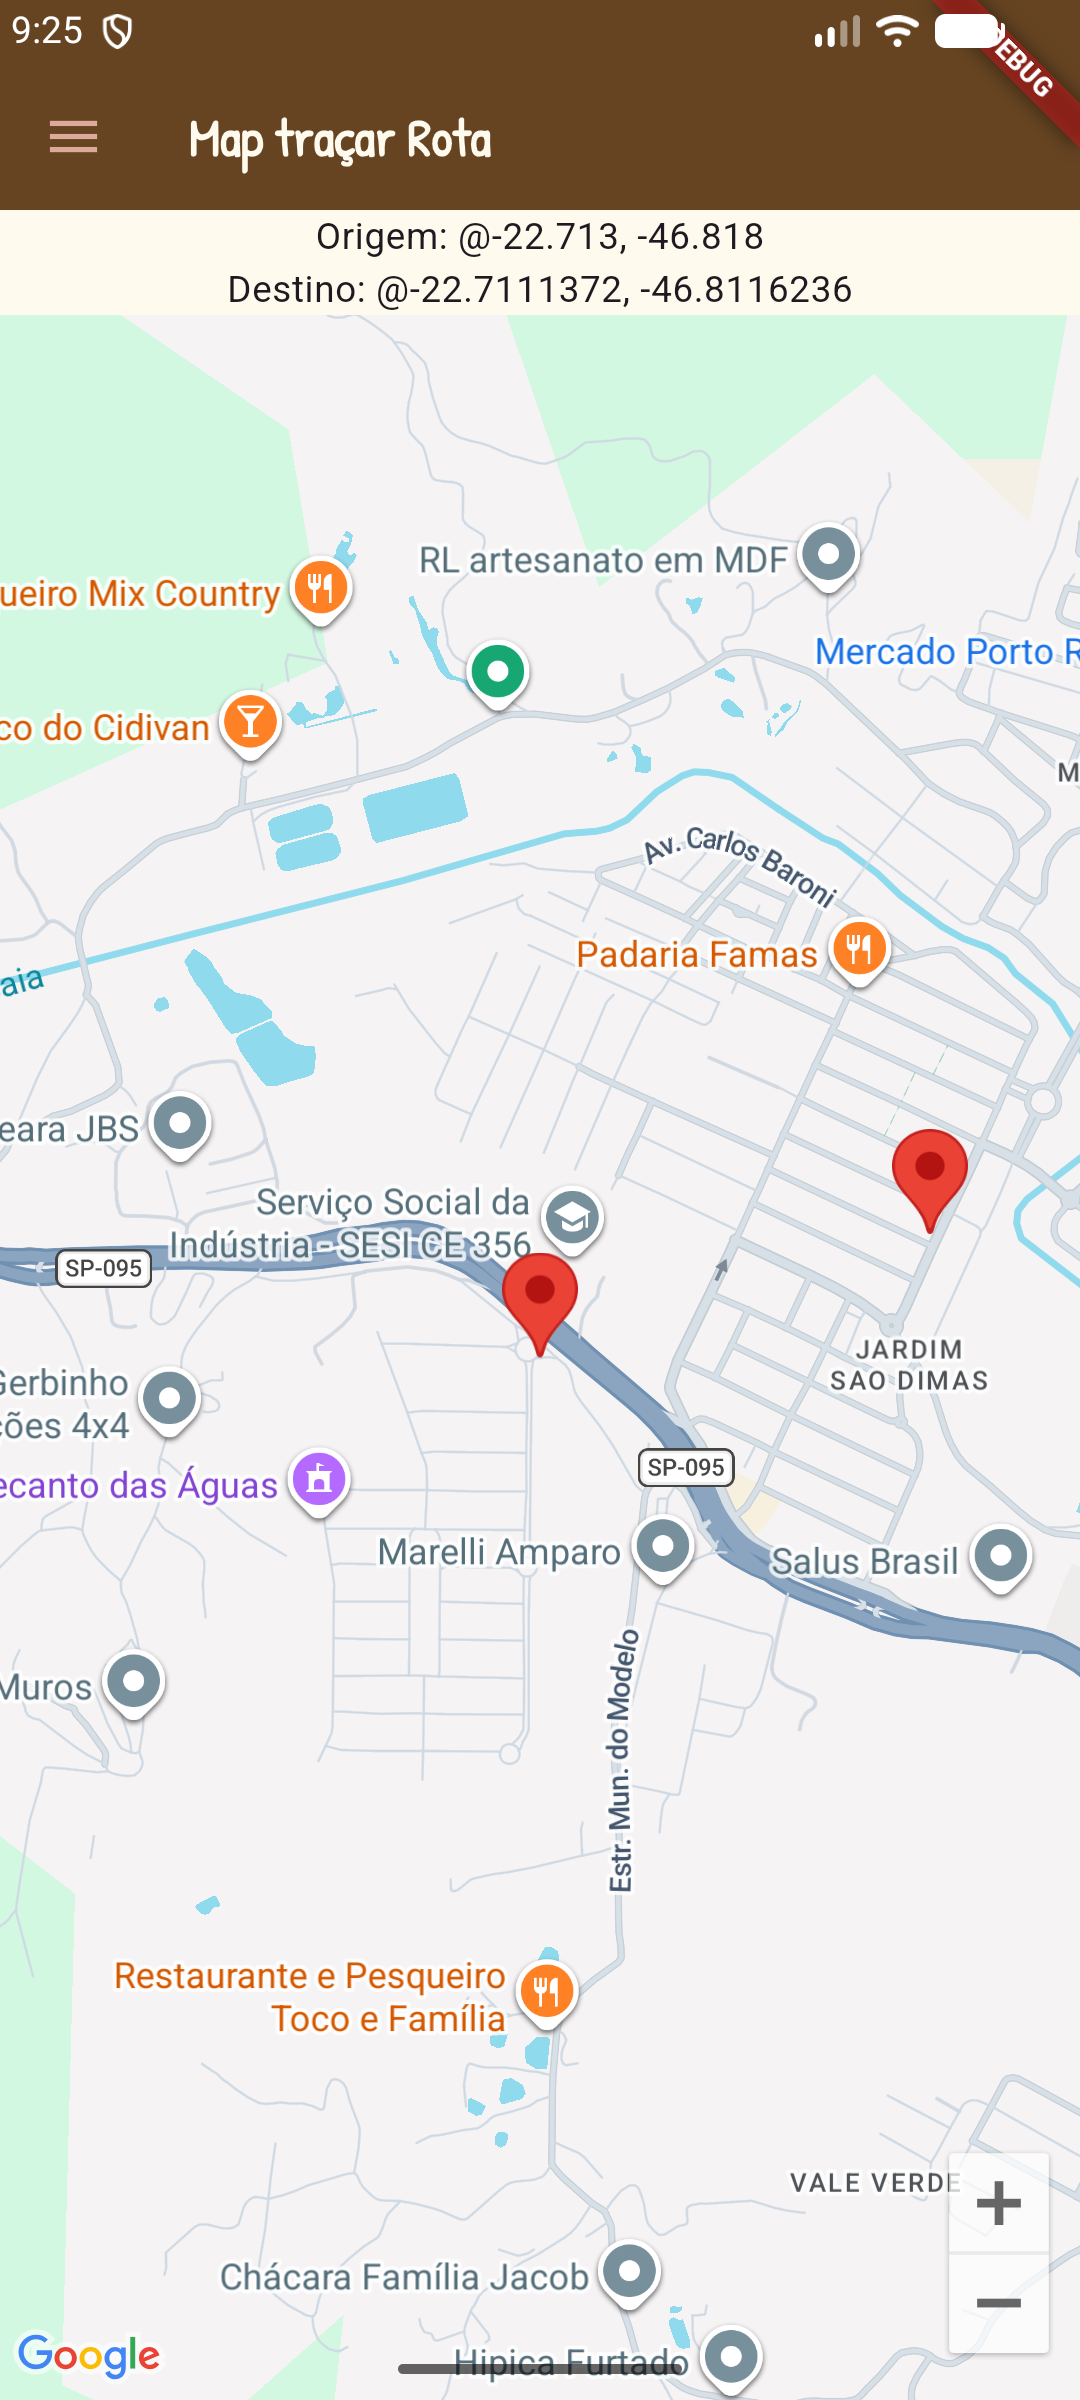
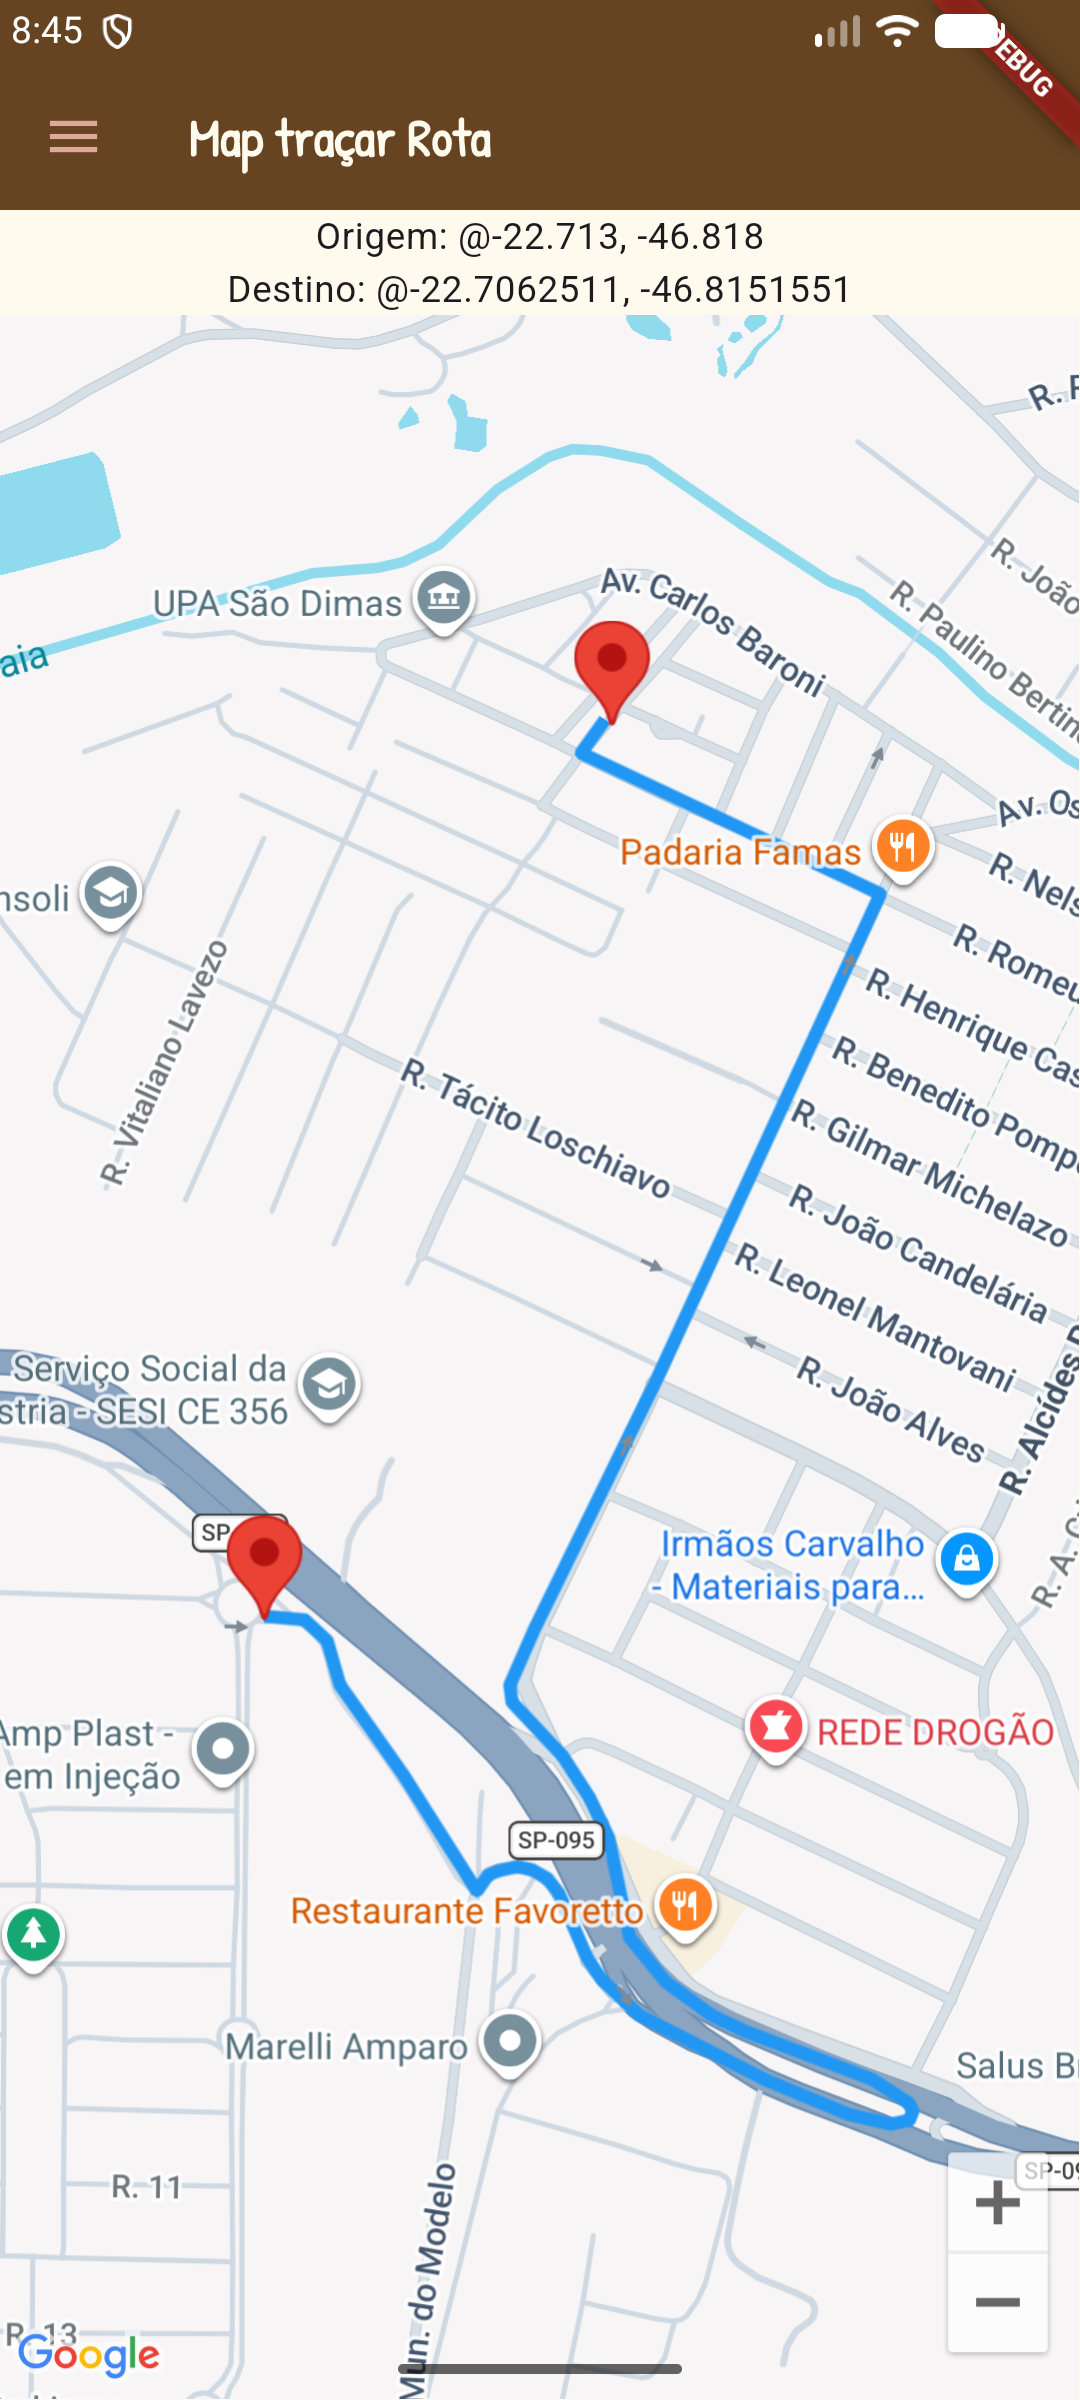
rotas ok

diff --git a/lib/ui/rota.dart b/lib/ui/rota.dart
@@ -1,6 +1,8 @@
+import 'dart:convert';
+
 import 'package:flutter/material.dart';
-import 'package:flutter_polyline_points/flutter_polyline_points.dart';
 import 'package:google_maps_flutter/google_maps_flutter.dart';
+import 'package:http/http.dart' as http;
 
 import 'widgets/menu.dart';
 
@@ -14,7 +16,8 @@ class Rota extends StatefulWidget {
 class _RotaState extends State<Rota> {
   final LatLng _pontoInicial = LatLng(-22.7130000, -46.8180000); //SESI Amparo
   LatLng? _pontoClicado;
-  Set<Polyline> _linhas = {};
+  GoogleMapController? mapController;
+  final Map<PolylineId, Polyline> _polylines = {};
   String mensagem = 'Destino: Clique em um ponto no mapa';
 
   @override
@@ -40,10 +43,13 @@ class _RotaState extends State<Rota> {
                   target: _pontoInicial,
                   zoom: 15.0,
                 ),
+                onMapCreated: (GoogleMapController controller) {
+                  mapController = controller;
+                },
                 onTap: (LatLng latLng) {
                   setState(() {
                     _pontoClicado = latLng;
-                    _obterRota();
+                    buscarRota(_pontoInicial, latLng);
                     mensagem =
                         'Destino: @${latLng.latitude.toStringAsFixed(7)}, ${latLng.longitude.toStringAsFixed(7)}';
                   });
@@ -76,7 +82,7 @@ class _RotaState extends State<Rota> {
                           infoWindow: InfoWindow(title: 'Destino'),
                         ),
                       },
-                polylines: _linhas,
+                polylines: _polylines.values.toSet(),
               ),
             ),
           ],
@@ -85,58 +91,71 @@ class _RotaState extends State<Rota> {
     );
   }
 
-  void _atualizarLinhas(List<LatLng> rota) {
-    if (_pontoClicado == null) {
-      _linhas = {};
-      return;
-    }
-    _linhas = {
-      Polyline(
-        polylineId: PolylineId('rota_destino'),
-        points: rota,
-        color: Colors.blue,
-        width: 5,
-        jointType: JointType.round,
-      ),
-    };
-  }
-
-  Future<void> _obterRota() async {
-    final pontos = PolylinePoints.legacy('API_KEY');
-
-    // ignore: deprecated_member_use
-    final result = await pontos.getRouteBetweenCoordinates(
-      request: PolylineRequest(
-        origin: PointLatLng(_pontoInicial.latitude, _pontoInicial.longitude),
-        destination: PointLatLng(
-          _pontoClicado!.latitude,
-          _pontoClicado!.longitude,
-        ),
-        mode: TravelMode.driving,
-      ),
+  Future<void> buscarRota(LatLng origem, LatLng destino) async {
+    final url = Uri.parse(
+      'https://router.project-osrm.org/route/v1/driving/'
+      '${origem.longitude},${origem.latitude};'
+      '${destino.longitude},${destino.latitude}'
+      '?overview=full&geometries=geojson',
     );
 
-    if (result.points.isNotEmpty) {
-      final coordenadas = result.points
-          .map((p) => LatLng(p.latitude, p.longitude))
-          .toList();
+    try {
+      final response = await http.get(url);
 
-      if (mounted) {
-        setState(() {
-          _atualizarLinhas(coordenadas);
-        });
-      }
-    } else {
-      if (mounted) {
-        debugPrint(result.errorMessage);
-        ScaffoldMessenger.of(context).showSnackBar(
-          SnackBar(
-            content: Text(
-              'Erro ao buscar rota na API: ${result.errorMessage ?? 'Sem rota disponível'}',
-            ),
-          ),
+      if (response.statusCode == 200) {
+        final data = jsonDecode(response.body);
+
+        if (data['routes'] == null || (data['routes'] as List).isEmpty) {
+          debugPrint('OSRM: nenhuma rota encontrada');
+          return;
+        }
+
+        final coords = data['routes'][0]['geometry']['coordinates'] as List;
+        final pontos = coords
+            .map<LatLng>((c) => LatLng(c[1].toDouble(), c[0].toDouble()))
+            .toList();
+
+        final polyline = Polyline(
+          polylineId: const PolylineId('trajeto_osrm'),
+          color: Colors.blue,
+          width: 5,
+          points: pontos,
         );
+
+        setState(() {
+          _polylines.clear();
+          _polylines[polyline.polylineId] = polyline;
+        });
+
+        final bounds = _boundsFromPoints(pontos);
+        if (bounds != null) {
+          mapController?.animateCamera(
+            CameraUpdate.newLatLngBounds(bounds, 48),
+          );
+        }
+      } else {
+        debugPrint('OSRM erro: ${response.statusCode} - ${response.body}');
       }
+    } catch (e) {
+      debugPrint('Erro ao buscar rota OSRM: $e');
     }
+  }
+
+  LatLngBounds? _boundsFromPoints(List<LatLng> points) {
+    if (points.isEmpty) return null;
+
+    final latitudes = points.map((p) => p.latitude).toList();
+    final longitudes = points.map((p) => p.longitude).toList();
+
+    return LatLngBounds(
+      southwest: LatLng(
+        latitudes.reduce((a, b) => a < b ? a : b),
+        longitudes.reduce((a, b) => a < b ? a : b),
+      ),
+      northeast: LatLng(
+        latitudes.reduce((a, b) => a > b ? a : b),
+        longitudes.reduce((a, b) => a > b ? a : b),
+      ),
+    );
   }
 }
